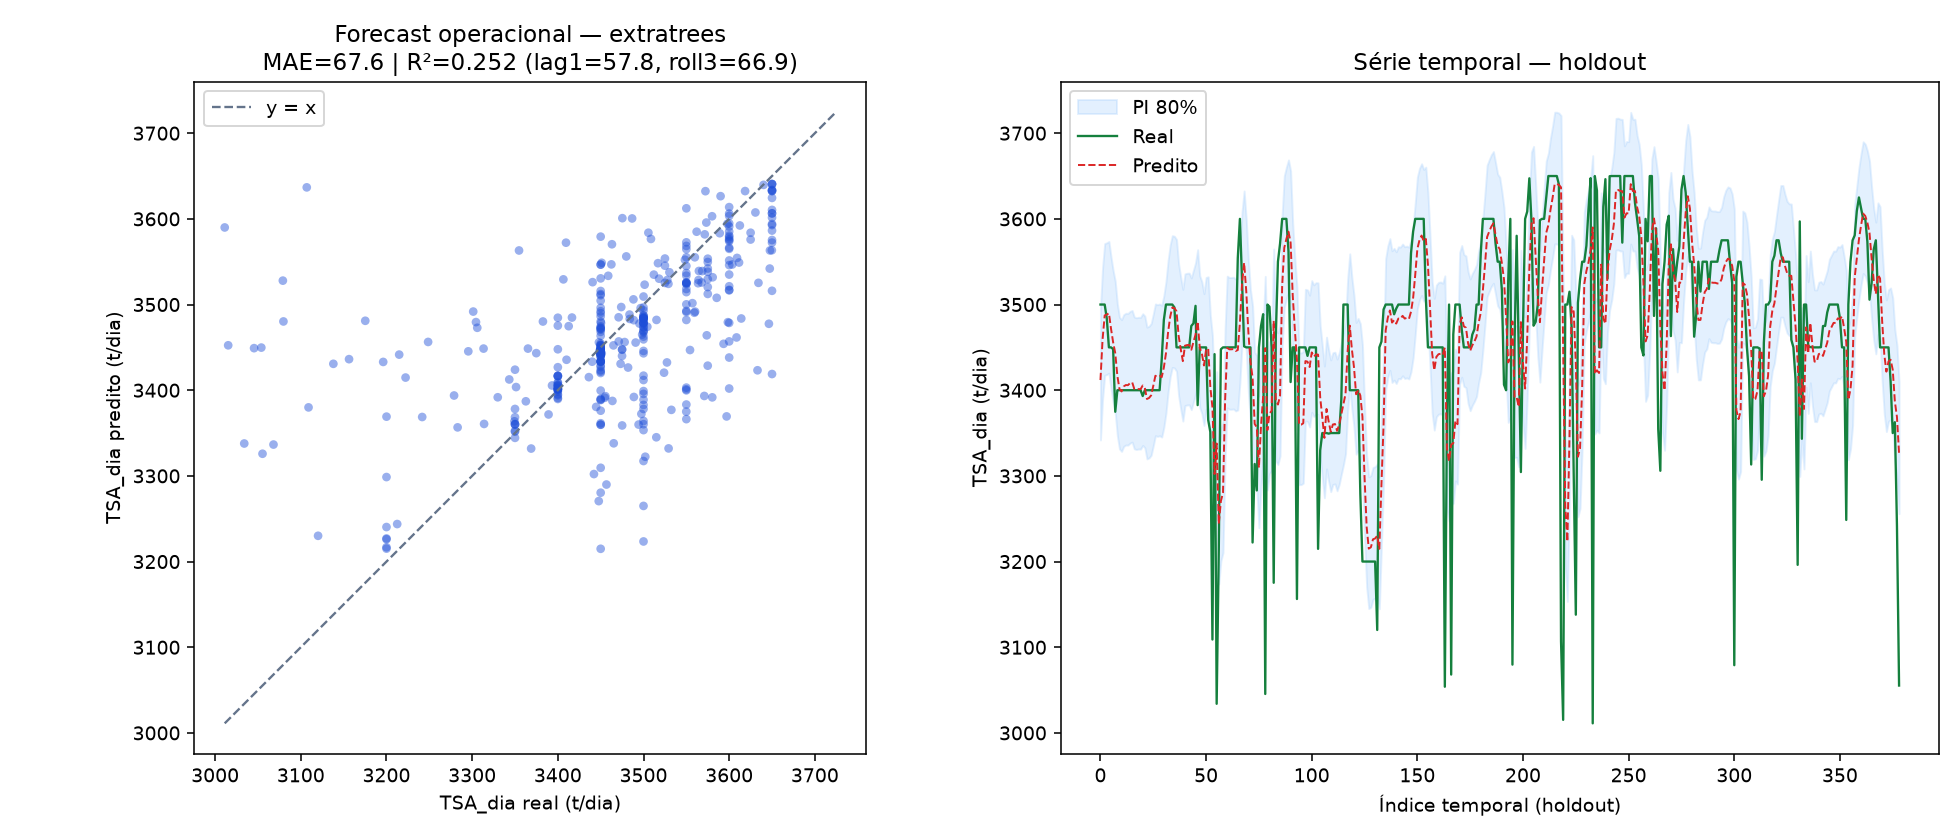
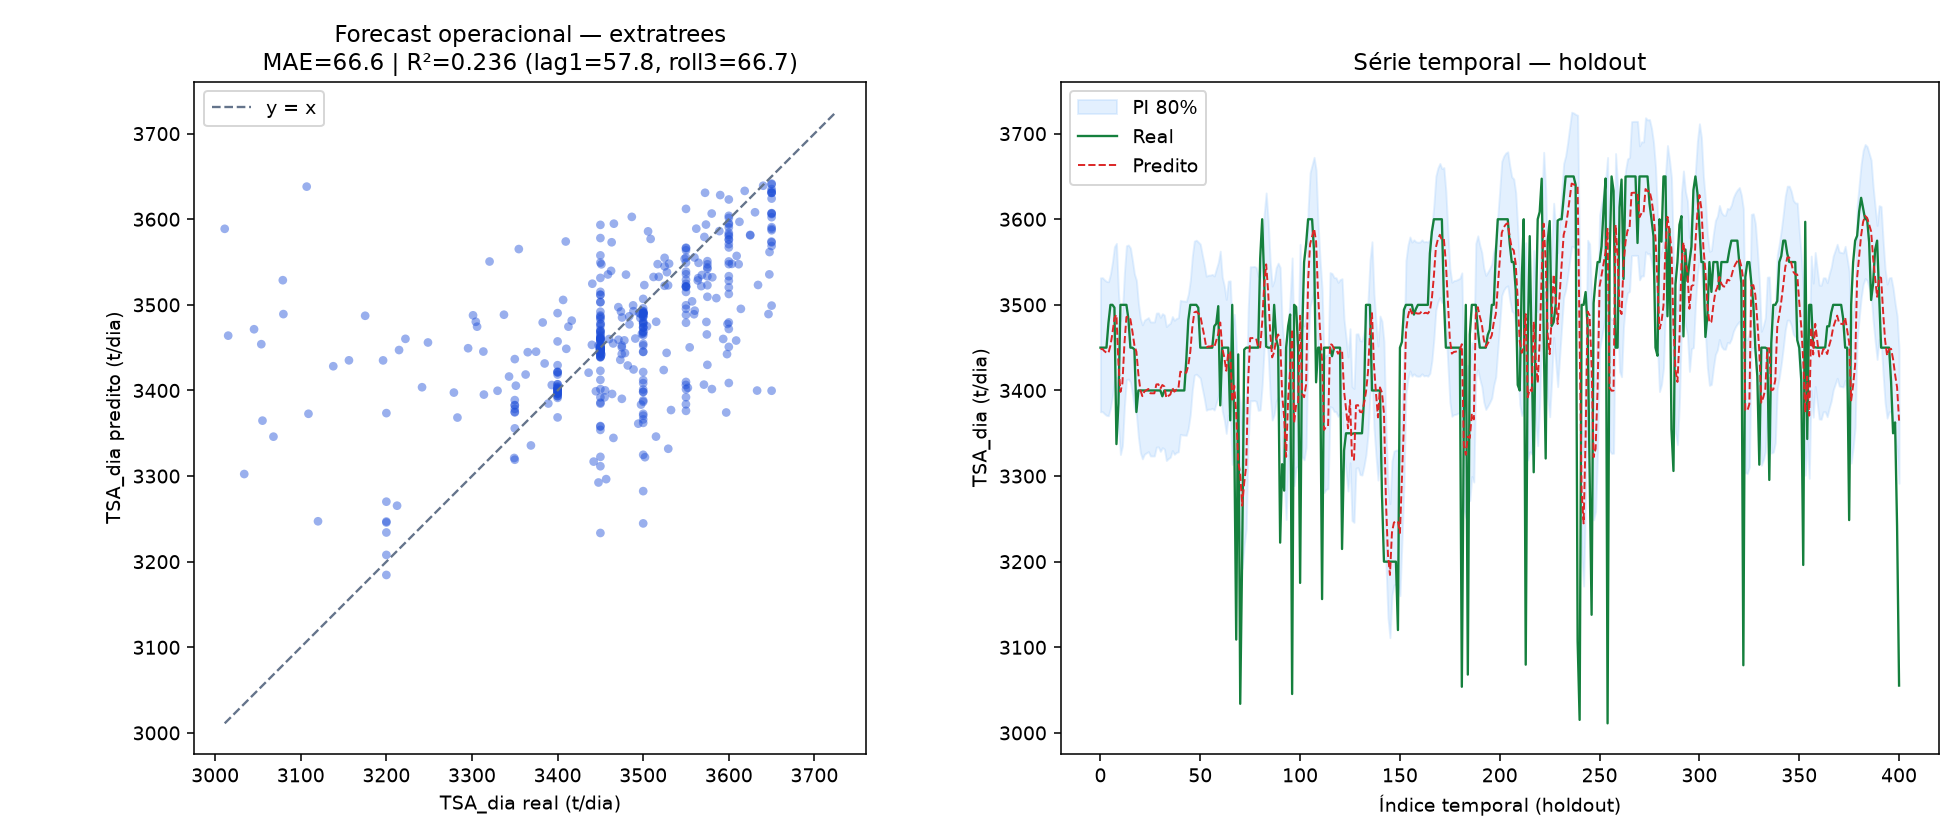
feat(analytics): retreina TSA what-if (Lasso) e forecast (ExtraTrees) com 13 features
Scripts de treino consomem primeira_base.csv e process_specs; campeões
atualizados com MAE holdout ~89 (what-if) e ~67 (forecast operacional).

diff --git a/analytics/train_tsa_primeira_base.py b/analytics/train_tsa_primeira_base.py
@@ -4,7 +4,7 @@ Autor: Emerson Antônio
 Data: 2026-07-13
 
 Y = TSA_dia
-X = 17 features de negócio (RELATORIO §3)
+X = 13 preditores oficiais Camada 3 (process_specs)
 
 Pipeline:
 1. Compara famílias do projeto via TimeSeriesSplit + MAE
@@ -40,27 +40,9 @@ from simulation.models.grid_search import (
     _param_grid,
     fit_elo3_with_grid_search,
 )
+from simulation.process_specs import PROCESS_COLUMNS, TARGET
 
-TARGET = "TSA_dia"
-FEATURES = [
-    "Carga_Alcalina",
-    "Kappa",
-    "DB_SGF",
-    "DB_LAB",
-    "Secura_pct",
-    "Casca_pct",
-    "Extrativo_Total",
-    "Extrativo_AT",
-    "Extrativo_SGF",
-    "TPC",
-    "Idade",
-    "vmi_le_021",
-    "vmi_021_025",
-    "vmi_gt_025",
-    "pct_AB",
-    "pct_C",
-    "pct_DMG",
-]
+FEATURES = list(PROCESS_COLUMNS)
 FAMILIES = [
     "baseline",
     "elasticnet",
@@ -78,30 +60,10 @@ HOLDOUT_FRACTION = 0.2
 
 
 def _load_ordered_frame() -> pd.DataFrame:
-    """Carrega primeira_base.csv validando equivalência com L2 ordenado."""
+    """Carrega base/primeira_base.csv (13 preditores + TSA_dia, ordem temporal)."""
     csv_path = REPO / "base" / "primeira_base.csv"
-    csv_df = pd.read_csv(csv_path)
     cols = FEATURES + [TARGET]
-
-    pointer_path = REPO / "data" / "l2_excel_validation" / "current.json.previous"
-    if pointer_path.exists():
-        pointer = json.loads(pointer_path.read_text(encoding="utf-8"))
-        train = pd.read_parquet(pointer["paths"]["train_features"])
-        holdout = pd.read_parquet(pointer["paths"]["holdout_features"])
-        l2 = pd.concat([train, holdout], ignore_index=True)
-        l2f = (
-            l2.loc[l2[cols].notna().all(axis=1), cols + ["data_processo", "turno"]]
-            .sort_values(["data_processo", "turno"])
-            .reset_index(drop=True)
-        )
-        if len(l2f) != len(csv_df):
-            print(
-                f"Aviso: CSV ({len(csv_df)}) != L2 filtrado ({len(l2f)}); "
-                "usando L2 ordenado temporalmente."
-            )
-        return l2f[cols]
-
-    return csv_df[cols].reset_index(drop=True)
+    return pd.read_csv(csv_path)[cols].reset_index(drop=True)
 
 
 def _temporal_split(df: pd.DataFrame) -> tuple[pd.DataFrame, pd.DataFrame]:

diff --git a/analytics/forecast_tsa_operacional.py b/analytics/forecast_tsa_operacional.py
@@ -46,29 +46,9 @@ from simulation.models.grid_search import (
     _base_pipeline,
     fit_elo3_with_grid_search,
 )
+from simulation.forecast.specs import LAG_FEATURES, PROCESS_FEATURES, TARGET
 
-TARGET = "TSA_dia"
 ANCHOR = "TSA_roll3"
-PROCESS_FEATURES = [
-    "Carga_Alcalina",
-    "Kappa",
-    "DB_SGF",
-    "DB_LAB",
-    "Secura_pct",
-    "Casca_pct",
-    "Extrativo_Total",
-    "Extrativo_AT",
-    "Extrativo_SGF",
-    "TPC",
-    "Idade",
-    "vmi_le_021",
-    "vmi_021_025",
-    "vmi_gt_025",
-    "pct_AB",
-    "pct_C",
-    "pct_DMG",
-]
-LAG_FEATURES = ["TSA_lag1", "TSA_roll3", "TSA_roll7"]
 FAMILIES = [
     "randomforest",
     "extratrees",
@@ -84,16 +64,7 @@ INTERVAL_Q = (0.10, 0.90)
 
 def _load_ordered_frame() -> pd.DataFrame:
     cols = PROCESS_FEATURES + [TARGET]
-    pointer_path = REPO / "data" / "l2_excel_validation" / "current.json.previous"
-    pointer = json.loads(pointer_path.read_text(encoding="utf-8"))
-    train = pd.read_parquet(pointer["paths"]["train_features"])
-    holdout = pd.read_parquet(pointer["paths"]["holdout_features"])
-    l2 = pd.concat([train, holdout], ignore_index=True)
-    frame = (
-        l2.loc[l2[cols].notna().all(axis=1), cols + ["data_processo", "turno"]]
-        .sort_values(["data_processo", "turno"])
-        .reset_index(drop=True)
-    )
+    frame = pd.read_csv(REPO / "base" / "primeira_base.csv")[cols].reset_index(drop=True)
     frame[TARGET] = pd.to_numeric(frame[TARGET], errors="coerce")
     frame["TSA_lag1"] = frame[TARGET].shift(1)
     frame["TSA_roll3"] = frame[TARGET].shift(1).rolling(3, min_periods=3).mean()
@@ -104,7 +75,7 @@ def _load_ordered_frame() -> pd.DataFrame:
 
 def _engineer_features(frame: pd.DataFrame) -> pd.DataFrame:
     out = frame[PROCESS_FEATURES + LAG_FEATURES].copy()
-    out["DB_c"] = frame["DB_LAB"] - 490.0
+    out["DB_c"] = frame["DB_SGF"] - 490.0
     out["DB_c2"] = out["DB_c"] ** 2
     out["TPC_crit"] = (frame["TPC"] < 45).astype(float)
     out["TPC_opt"] = ((frame["TPC"] >= 60) & (frame["TPC"] <= 90)).astype(float)

diff --git a/reports/TSA_PRIMEIRA_BASE_MODELING.md b/reports/TSA_PRIMEIRA_BASE_MODELING.md
@@ -2,12 +2,12 @@
 
 **Autor:** Emerson Antônio
 **Data:** 2026-07-13
-**Base:** `base/primeira_base.csv` (1902 registros, 100% completos)
+**Base:** `base/primeira_base.csv` (2012 registros, 100% completos)
 
 ## Definição
 
 - **Y:** `TSA_dia`
-- **X:** 17 features de negócio
+- **X:** 13 features de negócio
 
 ## Validação
 
@@ -18,30 +18,30 @@
 
 | Família | CV MAE |
 |---------|--------|
-| baseline | 101.25 |
-| catboost | 101.86 |
-| randomforest | 103.04 |
-| extratrees | 103.75 |
-| xgboost | 106.96 |
-| histgradientboosting | 108.82 |
-| elasticnet | 109.15 |
-| ridge | 110.14 |
-| lasso | 110.18 |
-| lightgbm | 112.49 |
+| lasso | 87.04 |
+| ridge | 87.11 |
+| elasticnet | 87.30 |
+| extratrees | 89.29 |
+| randomforest | 92.25 |
+| catboost | 92.67 |
+| histgradientboosting | 99.96 |
+| xgboost | 102.91 |
+| baseline | 102.97 |
+| lightgbm | 103.34 |
 
-## Campeão: `catboost`
+## Campeão: `lasso`
 
-**GridSearch best_params:** `{'model__depth': 10, 'model__iterations': 200, 'model__l2_leaf_reg': 10.0, 'model__learning_rate': 0.03}`
+**GridSearch best_params:** `{'model__alpha': 1.0}`
 
-**CV MAE (GridSearch):** 93.87
+**CV MAE (GridSearch):** 86.64
 
 ## Holdout temporal
 
 | Métrica | Valor |
 |---------|-------|
-| MAE | 103.69 |
-| RMSE | 130.14 |
-| R² | -0.092 |
+| MAE | 88.66 |
+| RMSE | 120.12 |
+| R² | 0.029 |
 
 ## Gráfico
 
@@ -49,4 +49,4 @@
 
 ## Artefato
 
-`/Users/emerson.antonio/Developar/keyrus/veracel/gifi-predict/models/primeira_base/2026-07-13T102553Z/tsa_catboost.joblib`
+`/Users/emerson.antonio/Developar/keyrus/veracel/gifi-predict/models/primeira_base/2026-07-13T143520Z/tsa_lasso.joblib`

diff --git a/reports/TSA_FORECAST_OPERACIONAL.md b/reports/TSA_FORECAST_OPERACIONAL.md
@@ -2,7 +2,7 @@
 
 **Autor:** Emerson Antônio
 **Data:** 2026-07-13
-**Base:** `base/primeira_base.csv` + lags temporais (1895 registros após lags)
+**Base:** `base/primeira_base.csv` + lags temporais (2005 registros após lags)
 
 ## Estratégia
 
@@ -14,21 +14,21 @@ TSA_pred = TSA_roll3 + modelo_resíduo(features_processo + lags + FE)
 
 | Baseline | MAE |
 |----------|-----|
-| mean | 119.52 |
-| lag1 | 57.77 |
-| roll3 | 66.89 |
-| roll7 | 75.32 |
+| mean | 119.47 |
+| lag1 | 57.84 |
+| roll3 | 66.67 |
+| roll7 | 73.53 |
 
 ## Campeão: `extratrees`
 
-**GridSearch:** `{'model__max_depth': 12, 'model__max_features': 'sqrt', 'model__min_samples_leaf': 10, 'model__n_estimators': 200}`
+**GridSearch:** `{'model__max_depth': 12, 'model__max_features': 'sqrt', 'model__min_samples_leaf': 10, 'model__n_estimators': 400}`
 
 | Métrica holdout | Valor |
 |-----------------|-------|
-| MAE | 67.61 |
-| RMSE | 107.93 |
-| R² | 0.252 |
-| Cobertura PI 80% | 71.0% |
+| MAE | 66.63 |
+| RMSE | 106.83 |
+| R² | 0.236 |
+| Cobertura PI 80% | 71.3% |
 
 ## Gráfico
 
@@ -36,4 +36,4 @@ TSA_pred = TSA_roll3 + modelo_resíduo(features_processo + lags + FE)
 
 ## Modelo
 
-`/Users/emerson.antonio/Developar/keyrus/veracel/gifi-predict/models/primeira_base/forecast_2026-07-13T104544Z/forecast_extratrees.joblib`
+`/Users/emerson.antonio/Developar/keyrus/veracel/gifi-predict/models/primeira_base/forecast_2026-07-13T143544Z/forecast_extratrees.joblib`